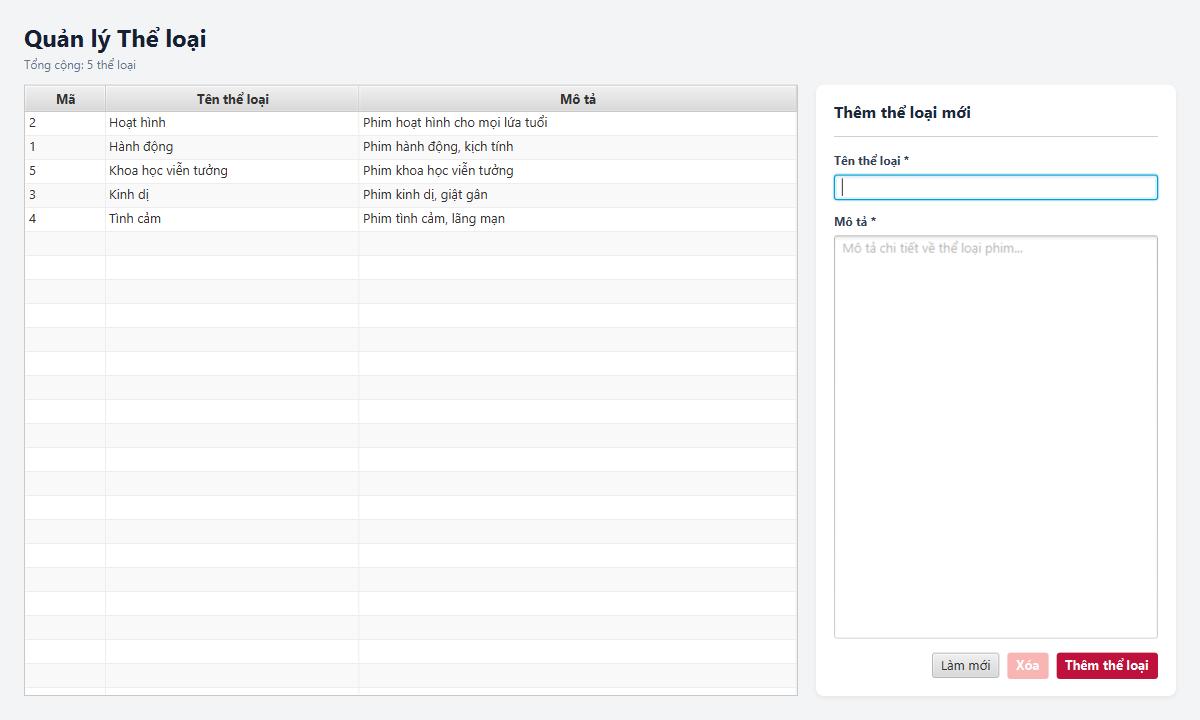
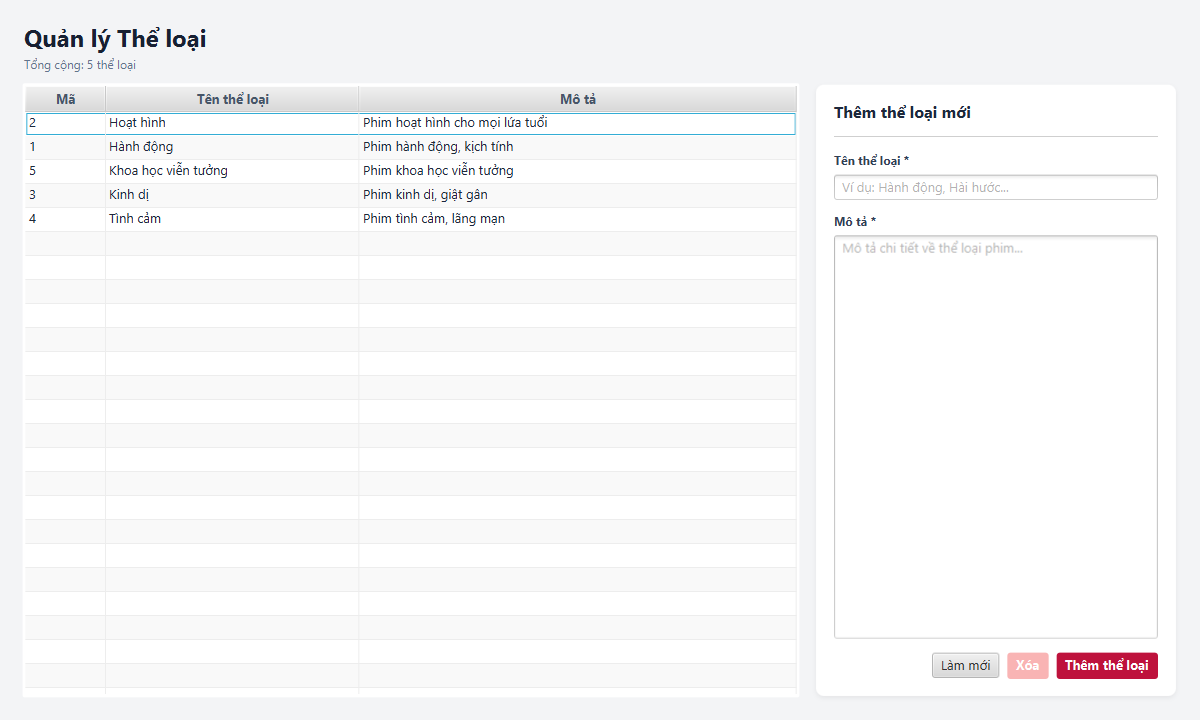
fix(desktop): prevent table disable wash-out and refine table text styling

diff --git a/src/main/resources/desktop/css/desktop.css b/src/main/resources/desktop/css/desktop.css
@@ -61,8 +61,21 @@
     -fx-background-radius: 8;
     -fx-effect: dropshadow(three-pass-box, rgba(0,0,0,0.05), 4, 0, 0, 1);
 }
+.table-view {
+    -fx-background-color: white;
+}
+.table-view .column-header .label {
+    -fx-text-fill: #475569;
+    -fx-font-weight: bold;
+}
+.table-view .table-cell {
+    -fx-text-fill: #1e293b;
+    -fx-alignment: center-left;
+}
 .table-row-cell:stopped {
-    -fx-background-color: #f1f5f9;
+    -fx-background-color: #f8fafc;
+}
+.table-row-cell:stopped .table-cell {
     -fx-text-fill: #94a3b8;
 }
 .table-row-cell:stopped .text {

diff --git a/src/main/java/com/fu/cinema/desktop/controller/MovieController.java b/src/main/java/com/fu/cinema/desktop/controller/MovieController.java
@@ -65,9 +65,11 @@ public class MovieController {
     private final AtomicLong searchSequence = new AtomicLong(0);
     private final PauseTransition debounce = new PauseTransition(Duration.millis(300));
     private boolean updatingPagination = false;
+    private boolean initializing = true;
 
     @FXML
     private void initialize() {
+        initializing = true;
         setupColumns();
         setupRowFactory();
         setupFilters();
@@ -75,6 +77,7 @@ public class MovieController {
         setupPagination();
 
         loadGenreOptions();
+        initializing = false;
         loadPage(0);
     }
 
@@ -167,7 +170,9 @@ public class MovieController {
                 new MovieStatusOption(MovieStatus.STOPPED, "Ngừng chiếu")
         );
         cmbStatus.getSelectionModel().selectFirst();
-        cmbStatus.valueProperty().addListener((obs, o, n) -> resetPageAndLoad());
+        cmbStatus.valueProperty().addListener((obs, o, n) -> {
+            if (!initializing) resetPageAndLoad();
+        });
 
         // Sort filter
         cmbSort.getItems().setAll(
@@ -176,7 +181,9 @@ public class MovieController {
                 new SortOption("duration", "Thời lượng (giảm dần)")
         );
         cmbSort.getSelectionModel().selectFirst();
-        cmbSort.valueProperty().addListener((obs, o, n) -> resetPageAndLoad());
+        cmbSort.valueProperty().addListener((obs, o, n) -> {
+            if (!initializing) resetPageAndLoad();
+        });
 
         // Genre combobox converter & listener
         cmbGenre.setConverter(new StringConverter<>() {
@@ -187,7 +194,9 @@ public class MovieController {
             @Override
             public GenreOption fromString(String string) { return null; }
         });
-        cmbGenre.valueProperty().addListener((obs, o, n) -> resetPageAndLoad());
+        cmbGenre.valueProperty().addListener((obs, o, n) -> {
+            if (!initializing) resetPageAndLoad();
+        });
     }
 
     private void setupDebounce() {
@@ -245,7 +254,7 @@ public class MovieController {
                         renderPageResult(result);
                     }
                 },
-                tableMovies
+                null
         );
     }
 
@@ -297,7 +306,7 @@ public class MovieController {
                     }
                     loadPage(pagination.getCurrentPageIndex());
                 },
-                tableMovies
+                null
         );
     }
 

diff --git a/src/main/java/com/fu/cinema/desktop/controller/GenreController.java b/src/main/java/com/fu/cinema/desktop/controller/GenreController.java
@@ -60,7 +60,7 @@ public class GenreController {
         fxAsync.run(
                 genreFacade::getAllGenres,
                 this::populateGenres,
-                tableGenres
+                null
         );
     }
 
